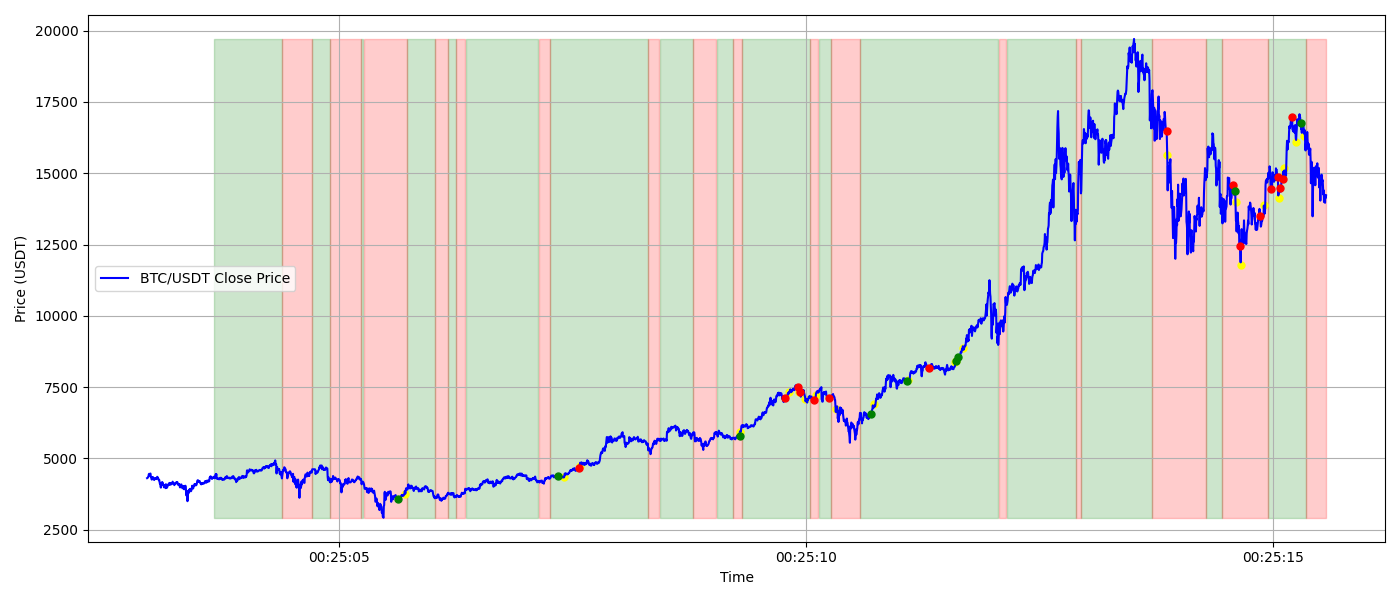
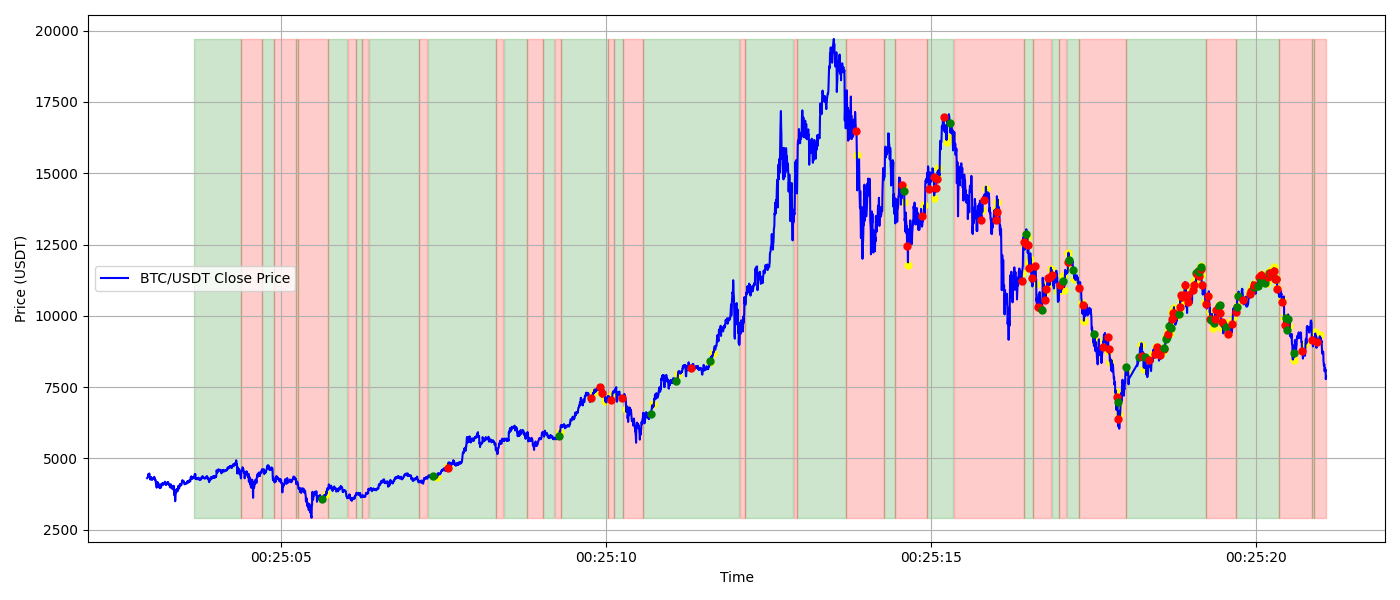
Added new logic - if in position increase threshold for initiating a trade. According to the test results, this is a more stable logic

diff --git a/tests/strategytest.py b/tests/strategytest.py
@@ -63,9 +63,9 @@ def run_backtest(df_60min, starting_balance=1000, fee=0.001):
 
         # Generate signal using the strategy model appropriate for current market regime
         if trend == 'bull':
-            signal = bull_signal(sliced, model_st1, model_st2)
+            signal = bull_signal(sliced, model_st1, model_st2, position)
         elif trend == 'bear':
-            signal = bear_signal(sliced, model_st1, model_st2)
+            signal = bear_signal(sliced, model_st1, model_st2, position)
         else:
             signal = range_signal(sliced, sliced)
 
@@ -106,6 +106,7 @@ def run_backtest(df_60min, starting_balance=1000, fee=0.001):
                     exit_price = take_profit_price * (1 - fee)
                     exit_reason = 'take_profit'
                     exit_trade = True
+                #COMMENTED FOR TEST
                 elif signal == "SELL":
                     exit_price = close_price * (1 - fee)
                     exit_reason = 'signal_sell'
@@ -120,6 +121,7 @@ def run_backtest(df_60min, starting_balance=1000, fee=0.001):
                     exit_price = take_profit_price * (1 + fee)
                     exit_reason = 'take_profit'
                     exit_trade = True
+                #COMMENTED FOR TEST    
                 elif signal == "BUY":
                     exit_price = close_price * (1 + fee)
                     exit_reason = 'signal_buy'

diff --git a/core/strategies/bull.py b/core/strategies/bull.py
@@ -1,7 +1,7 @@
 import pandas as pd
 from core.data_clean_functions.prepare_data_for_model import prepare_training_data as prepare_data
 
-def generate_signal(df, model_stage1, model_stage2, threshold=0.6):
+def generate_signal(df, model_stage1, model_stage2, position=None, threshold=0.6):
     """
     Generates a trading signal ('BUY', 'SELL', or 'HOLD') based on a two-stage machine learning process.
 
@@ -12,11 +12,18 @@ def generate_signal(df, model_stage1, model_stage2, threshold=0.6):
         df (pd.DataFrame): DataFrame containing market data and technical indicators.
         model_stage1: First-stage model to classify TRADE vs HOLD.
         model_stage2: Second-stage model to classify BUY (0), HOLD (1), or SELL (2).
+        position(string): Short or long or None
         threshold (float): Probability threshold for initiating a trade (default is 0.6).
 
     Returns:
         str: A trading signal - one of 'BUY', 'SELL', or 'HOLD'.
     """
+    # If we already in trade we increase threshold for initiating a trade to 0.75(test)
+    if position == None:
+        threshold = 0.6
+    else:
+        threshold = 0.75
+
     # Check if input data is too short or empty
     if df.empty or len(df) < 50:
         print("Too few rows in df")

diff --git a/core/strategies/bear.py b/core/strategies/bear.py
@@ -1,7 +1,7 @@
 import pandas as pd
 from core.data_clean_functions.prepare_data_for_model import prepare_training_data as prepare_data
 
-def generate_signal(df, model_stage1, model_stage2, threshold=0.6):
+def generate_signal(df, model_stage1, model_stage2, position, threshold=0.6):
     """
     Generates a trading signal ('BUY', 'SELL', or 'HOLD') based on a two-stage machine learning process.
 
@@ -12,11 +12,18 @@ def generate_signal(df, model_stage1, model_stage2, threshold=0.6):
         df (pd.DataFrame): DataFrame containing market data and technical indicators.
         model_stage1: First-stage model to classify TRADE vs HOLD.
         model_stage2: Second-stage model to classify BUY (0), HOLD (1), or SELL (2).
+        position(string): Short or long or None
         threshold (float): Probability threshold for initiating a trade (default is 0.6).
 
     Returns:
         str: A trading signal - one of 'BUY', 'SELL', or 'HOLD'.
     """
+    # If we already in trade we increase threshold for initiating a trade to 0.75(test)
+    if position == None:
+        threshold = 0.6
+    else:
+        threshold = 0.75
+
     # Check if input data is too short or empty
     if df.empty or len(df) < 50:
         print("Too few rows in df")

diff --git a/tests/test_backtest.py b/tests/test_backtest.py
@@ -119,7 +119,7 @@ def generate_report(df60, trades, balance_curve):
         print('Trades is empty')
 
 
-def test_backtest_runs(rows=3500):
+def test_backtest_runs(rows=5000):
     """
     Loads historical data, runs backtest, generates report, and performs basic assertions.
 
